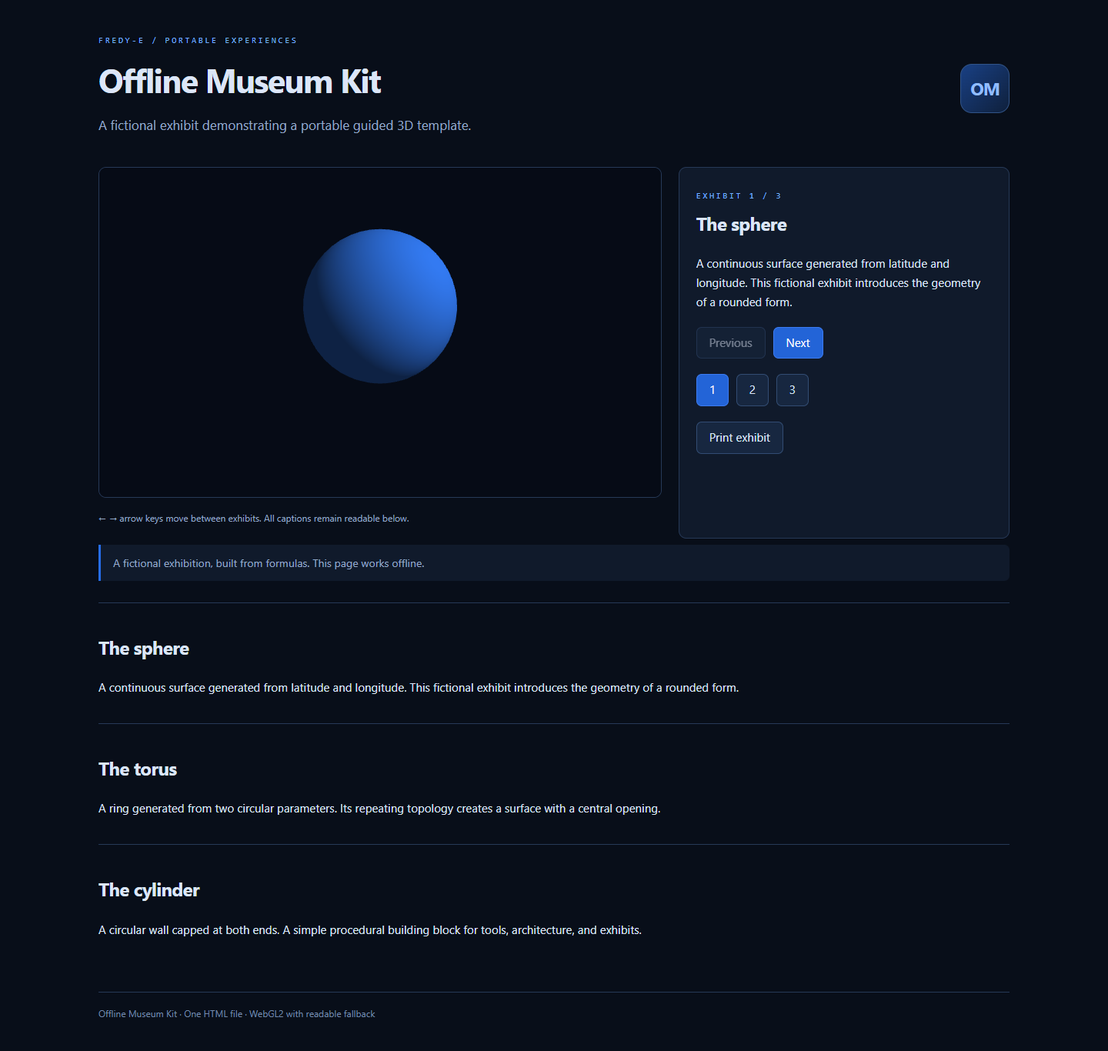
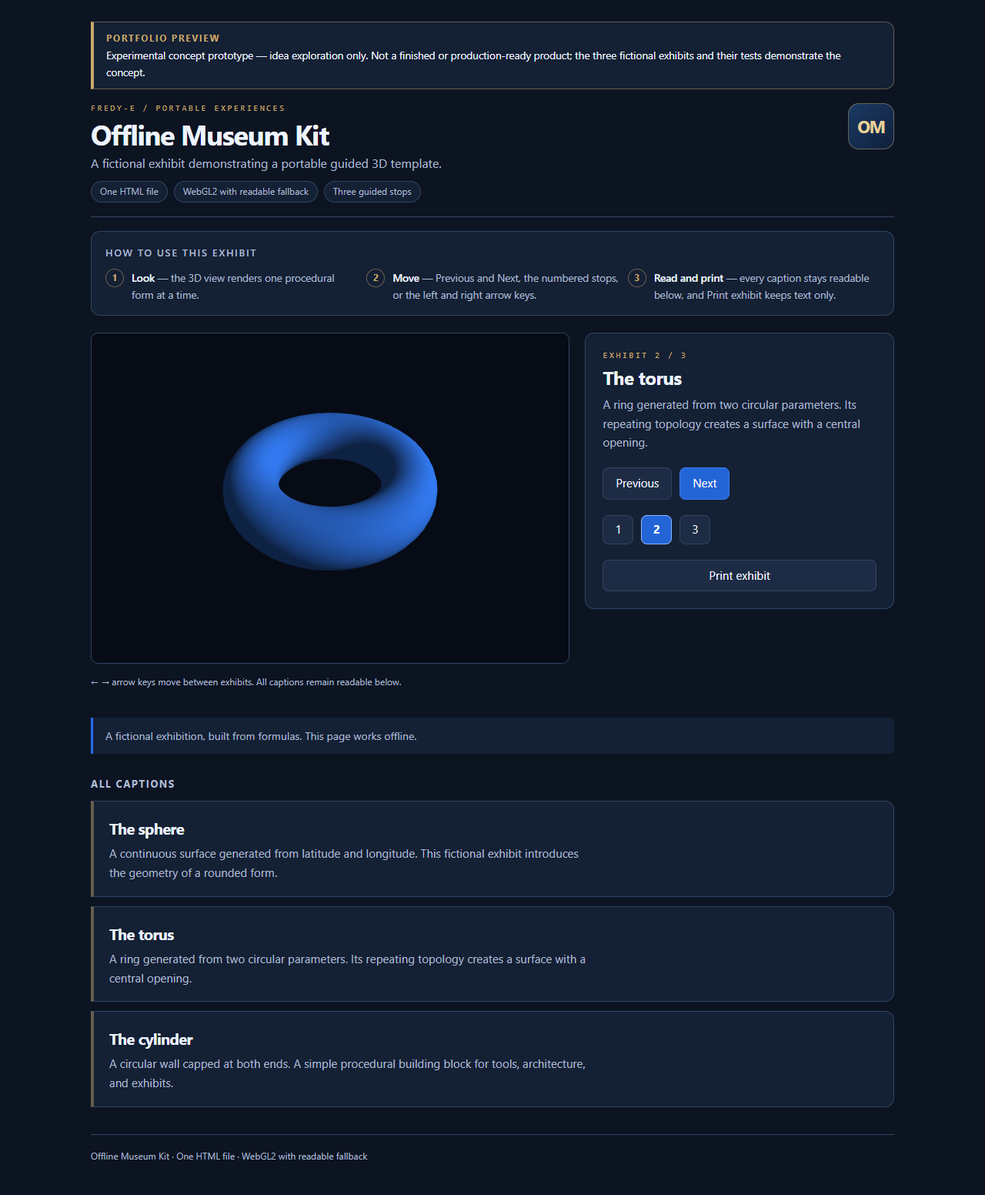
Approved UI preview refresh (Offline-Museum-Kit)

diff --git a/index.html b/index.html
@@ -1,6 +1,116 @@
-<!doctype html><html lang="en"><head><meta charset="utf-8"><meta name="viewport" content="width=device-width,initial-scale=1"><title>Offline Museum Kit</title><style>:root{color-scheme:dark;--bg:#080e19;--panel:#101a2b;--border:#263957;--text:#dce6f8;--muted:#95a8c8;--accent:#72adff;--blue:#266deb}*{box-sizing:border-box}body{margin:0;background:var(--bg);color:var(--text);font:15px/1.65 'Segoe UI',system-ui,sans-serif}main{max-width:1240px;margin:auto;padding:38px 28px}header{display:flex;align-items:center;justify-content:space-between;gap:20px;margin-bottom:25px}h1{font-size:43px;font-weight:650;letter-spacing:-1.6px;margin:0}h2{font-size:24px;letter-spacing:-.6px}h3{font-size:18px}p{margin:8px 0 16px}.eyebrow{font:11px Consolas,monospace;letter-spacing:2.6px;color:var(--accent);margin-bottom:10px}.subtitle{color:var(--muted);font-size:17px}.icon{display:grid;place-items:center;flex:0 0 64px;height:64px;border:1px solid #315488;border-radius:15px;background:linear-gradient(135deg,#194084,#0f203c);color:#92bdff;font-size:23px;letter-spacing:-1px;font-weight:700}.chip{font-size:11px;letter-spacing:.5px;font-weight:400;vertical-align:middle;margin-left:15px;padding:4px 8px;border:1px solid var(--border);border-radius:5px;color:var(--muted)}a{color:var(--accent)}button,.button,select,input,textarea{font:inherit}button,.button{display:inline-block;padding:9px 16px;border:1px solid #324c73;border-radius:7px;color:var(--text);background:#172740;cursor:pointer;line-height:1.45;text-decoration:none}button:hover,.button:hover{border-color:var(--accent);background:#213854}button:disabled{opacity:.5;cursor:default}.primary{background:#2364d7;border-color:#3c7bf0;color:white}.toolbar{display:flex;align-items:center;gap:10px;flex-wrap:wrap;margin:20px 0}.notice{background:var(--panel);padding:12px 16px;border-left:3px solid var(--blue);border-radius:0 7px 7px 0;color:var(--muted);font-size:14px;white-space:pre-wrap}.stats{display:grid;grid-template-columns:repeat(4,1fr);gap:14px;margin:24px 0}.stats>div{padding:18px 20px;background:var(--panel);border:1px solid var(--border);border-radius:9px}.stats b{display:block;font-size:27px;font-weight:650;color:#d7e8ff}.stats span{font-size:12px;color:var(--muted)}input,select,textarea{border:1px solid var(--border);border-radius:7px;background:#111d30;color:var(--text);padding:9px 12px}input::placeholder,textarea::placeholder{color:#8094b4}.filters{display:flex;gap:10px;flex-wrap:wrap}.filters input{flex:1;min-width:200px}.meta{color:var(--muted);font-size:12px;margin-top:17px}.table-wrap{overflow:auto;border:1px solid var(--border);border-radius:9px}table{border-collapse:collapse;width:100%;font-size:14px}th{text-align:left;background:#14243b;color:var(--muted);font-size:12px;font-weight:500}td,th{padding:14px 16px;border-bottom:1px solid var(--border);vertical-align:top}tr:last-child td{border-bottom:0}td strong{font-weight:600}small{display:block;color:var(--muted);font-size:12px;margin-top:4px}.badge{display:inline-block;font-size:11px;padding:3px 8px;background:#162d4e;border:1px solid #335686;color:#9ac6ff;border-radius:5px}.warn{background:#332b1b;border-color:#66532b;color:#f2cc89}details{font-size:12px;color:var(--muted)}summary{cursor:pointer;margin:8px 0;color:var(--accent)}.explain{font-size:14px;margin-top:25px;padding:14px 18px;border:1px solid var(--border);border-radius:8px}.explain p{max-width:920px}footer{margin-top:35px;border-top:1px solid var(--border);padding-top:18px;color:#748aac;font-size:12px}.split{display:grid;grid-template-columns:1fr 1fr;gap:18px}.panel{background:var(--panel);border:1px solid var(--border);border-radius:10px;padding:22px}.panel h2{margin-top:0}textarea{width:100%;min-height:250px;resize:vertical;font:13px/1.7 Consolas,monospace}.result-grid{display:grid;grid-template-columns:repeat(3,1fr);gap:15px}.result-grid ul{padding-left:20px;overflow-wrap:anywhere}canvas{display:block;width:100%;border:1px solid var(--border);border-radius:10px;background:#0b1425}.controls-grid{display:flex;gap:20px;align-items:center;flex-wrap:wrap}.controls-grid label{display:flex;gap:9px;align-items:center;font-size:13px}input[type=range]{width:140px;padding:0;accent-color:var(--blue)}input[type=checkbox]{accent-color:var(--blue)}.invalid{color:#efb4b4}pre{white-space:pre-wrap;overflow-wrap:anywhere}button:focus-visible,input:focus-visible,select:focus-visible,textarea:focus-visible,a:focus-visible{outline:2px solid var(--accent);outline-offset:3px}@media(max-width:760px){main{padding:24px 16px}h1{font-size:34px}.stats{grid-template-columns:repeat(2,1fr)}.split,.result-grid{grid-template-columns:1fr}.toolbar{gap:7px}td,th{padding:10px}.icon{display:none}.panel{padding:15px}}@media(prefers-reduced-motion:reduce){*{scroll-behavior:auto!important}}
+<!doctype html>
+<html lang="en">
+<head>
+<meta charset="utf-8">
+<meta name="viewport" content="width=device-width,initial-scale=1">
+<title>Offline Museum Kit</title>
+<style>/* Offline Museum Kit — portfolio preview shell.
+   Authoritative family style, vendored under build/vendor/ and embedded into
+   the standalone index.html by build/build_museum.py. System fonts only. */
+:root{
+  color-scheme:light dark;
+  --ui-bg:#0c1422;
+  --ui-surface:#142034;
+  --ui-ink:#eef4ff;
+  --ui-muted:#adbbd2;
+  --ui-accent:#8cbcff;
+  --ui-border:#31445f;
+  --ui-radius:12px;
+  --gold:#c9a86a;
+  --gold-line:rgba(201,168,106,.45);
+  --bg:var(--ui-bg);
+  --panel:var(--ui-surface);
+  --text:var(--ui-ink);
+  --muted:var(--ui-muted);
+  --accent:var(--ui-accent);
+  --border:var(--ui-border);
+  --blue:#266deb;
+}
+@media (prefers-color-scheme:light){
+  :root{
+    --ui-bg:#f2f5fa;
+    --ui-surface:#ffffff;
+    --ui-ink:#1d2b44;
+    --ui-muted:#4d617e;
+    --ui-accent:#204fb0;
+    --ui-border:#ccd8e9;
+    --gold:#8a6d2f;
+    --gold-line:#d9c491;
+    --blue:#204fb0;
+  }
+}
+*{box-sizing:border-box}
+html{scroll-behavior:smooth}
+body{margin:0;background:var(--ui-bg);color:var(--ui-ink);font:15px/1.65 'Segoe UI',system-ui,-apple-system,sans-serif}
+main{max-width:1100px;margin:auto;padding:28px 28px 40px;min-width:0}
+.prototype{margin:0 0 18px;padding:11px 16px;border:1px solid var(--gold-line);border-left:4px solid var(--gold);border-radius:0 var(--ui-radius) var(--ui-radius) 0;background:var(--ui-surface);color:var(--ui-ink);font-size:13.5px;line-height:1.6}
+.prototype strong{display:block;font-size:12px;letter-spacing:1.6px;text-transform:uppercase;color:var(--gold);margin-bottom:2px}
+.masthead{display:flex;align-items:flex-start;justify-content:space-between;gap:20px;margin:6px 0 18px;padding-bottom:18px;border-bottom:1px solid var(--ui-border)}
+.masthead h1{font-size:36px;font-weight:650;letter-spacing:-1.2px;margin:0 0 4px;line-height:1.1}
+.eyebrow{font:11px Consolas,Menlo,monospace;letter-spacing:2.4px;color:var(--gold);margin:0 0 8px;text-transform:uppercase}
+.subtitle{color:var(--ui-muted);font-size:16px;margin:0 0 10px;max-width:62ch}
+.facts{display:flex;gap:8px;flex-wrap:wrap;margin:0;padding:0;list-style:none}
+.facts li{font-size:12px;color:var(--ui-muted);border:1px solid var(--ui-border);border-radius:99px;padding:3px 11px;background:var(--ui-surface)}
+.icon{display:grid;place-items:center;flex:0 0 60px;height:60px;border:1px solid var(--gold-line);border-radius:14px;background:linear-gradient(135deg,#1b3a63,#0f203c);color:#e8cf9a;font-size:22px;font-weight:700;letter-spacing:-1px}
+.guide{margin:0 0 22px;padding:16px 18px;background:var(--ui-surface);border:1px solid var(--ui-border);border-radius:var(--ui-radius)}
+.guide h2{font-size:13px;letter-spacing:1.6px;text-transform:uppercase;color:var(--ui-muted);margin:0 0 10px;font-weight:600}
+.guide ol{margin:0;padding:0;list-style:none;display:grid;grid-template-columns:repeat(3,minmax(0,1fr));gap:12px}
+.guide li{display:flex;gap:10px;align-items:flex-start;font-size:13.5px;color:var(--ui-ink);min-width:0}
+.guide li b{flex:0 0 24px;height:24px;display:grid;place-items:center;border-radius:50%;border:1px solid var(--gold-line);color:var(--gold);font-size:12px;font-weight:700}
+.guide li span{color:var(--ui-muted)}
+.guide li span strong{color:var(--ui-ink);font-weight:600}
+.exhibit{display:grid;grid-template-columns:minmax(0,1.55fr) minmax(260px,1fr);gap:20px;align-items:start}
+.stage{position:relative;min-width:0}
+.panel{background:var(--ui-surface);border:1px solid var(--ui-border);border-radius:var(--ui-radius);padding:22px;min-width:0}
+.panel h2{margin:4px 0 6px;font-size:24px;letter-spacing:-.5px;line-height:1.2}
+.panel #description{color:var(--ui-muted);min-height:3.2em}
+h2{font-size:24px;letter-spacing:-.6px}
+p{margin:8px 0 16px}
+a{color:var(--ui-accent)}
+button{font:inherit}
+button{display:inline-block;padding:9px 16px;border:1px solid var(--ui-border);border-radius:8px;color:var(--ui-ink);background:rgba(140,188,255,.08);cursor:pointer;line-height:1.45;text-decoration:none;max-width:100%}
+button:hover{border-color:var(--ui-accent)}
+button:disabled{opacity:.5;cursor:default}
+.primary{background:#2364d7;border-color:#3c7bf0;color:#fff}
+@media (prefers-color-scheme:light){.primary{background:#204fb0;border-color:#204fb0}}
+.toolbar{display:flex;align-items:center;gap:10px;flex-wrap:wrap;margin:20px 0}
+#print{width:100%}
+#dots button{min-width:40px;padding:7px 10px}
+#dots button.primary{font-weight:700}
+.notice{background:var(--ui-surface);padding:12px 16px;border-left:3px solid var(--blue);border-radius:0 7px 7px 0;color:var(--ui-muted);font-size:14px;white-space:pre-wrap;margin:20px 0 0}
+.meta{color:var(--ui-muted);font-size:12px;margin-top:14px}
+footer{margin-top:35px;border-top:1px solid var(--ui-border);padding-top:18px;color:var(--ui-muted);font-size:12px}
+canvas{display:block;width:100%;border:1px solid var(--ui-border);border-radius:10px;background:#0b1425;max-width:100%}
+.captions{margin-top:28px}
+.captions>h2{font-size:13px;letter-spacing:1.6px;text-transform:uppercase;color:var(--ui-muted);margin:0 0 4px}
+.captions article{padding:18px 20px;border:1px solid var(--ui-border);border-left:4px solid var(--gold-line);border-radius:0 var(--ui-radius) var(--ui-radius) 0;margin-top:12px;background:var(--ui-surface)}
+@media (prefers-color-scheme:light){.captions article{background:#fffdf6}}
+.captions article h2{margin:0 0 4px;font-size:20px}
+.captions article p{margin:0;color:var(--ui-muted);max-width:78ch}
+button:focus-visible,a:focus-visible{outline:2px solid var(--ui-accent);outline-offset:3px}
+.skip{position:absolute;left:12px;top:-60px;z-index:99;padding:10px 16px;border-radius:0 0 10px 10px;background:var(--gold);color:#101828;font-weight:600;text-decoration:none;transition:top .2s}
+.skip:focus{top:0}
+@media(max-width:760px){main{padding:20px 14px 32px}.masthead h1{font-size:30px}.guide ol{grid-template-columns:minmax(0,1fr)}.toolbar{gap:7px}.icon{display:none}.panel{padding:16px}.exhibit{display:block}.guide{padding:14px}}
+@media(max-width:390px){main{padding:16px 12px 28px}.masthead h1{font-size:27px}.facts li{font-size:11px}}
+@media(prefers-reduced-motion:reduce){html{scroll-behavior:auto}*,*::before,*::after{animation-duration:.001ms!important;animation-iteration-count:1!important;transition-duration:.001ms!important;scroll-behavior:auto!important}}
+@media print{body{background:#fff;color:#111}canvas,.toolbar,.icon{display:none}.exhibit{display:block}.panel{background:#fff;color:#111;border:1px solid #aaa}.panel #description{color:#111;min-height:0}.prototype{background:#fff;color:#111;border:1px solid #888}.captions article{break-inside:avoid;background:#fff!important;color:#111;border:1px solid #aaa}.captions article p{color:#111}footer{color:#111}a{color:#111}}
 
-.exhibit{display:grid;grid-template-columns:minmax(0,1.7fr) minmax(220px,1fr);gap:22px}.stage{position:relative}#canvas{height:430px}#canvas[hidden]{display:none}.captions{margin-top:28px}.captions article{padding:18px 0;border-top:1px solid var(--border)}@media(max-width:760px){.exhibit{display:block}#canvas{height:320px}}@media print{body{background:white;color:black}canvas,.toolbar,.icon,.notice{display:none}.exhibit{display:block}.panel{background:white;color:black;border:1px solid #aaa}.captions article{break-inside:avoid}footer{color:black}}</style></head><body><main><header><div><p class="eyebrow">FREDY-E / PORTABLE EXPERIENCES</p><h1>Offline Museum Kit</h1><p class="subtitle" id="intro"></p></div><span class="icon">OM</span></header><div class="exhibit"><section class="stage"><canvas id="canvas" aria-label="Procedural 3D exhibit"></canvas><p class="meta">← → arrow keys move between exhibits. All captions remain readable below.</p></section><section class="panel"><p class="eyebrow" id="step"></p><h2 id="title"></h2><p id="description"></p><div class="toolbar"><button id="previous">Previous</button><button class="primary" id="next">Next</button></div><div id="dots" class="toolbar"></div><button id="print">Print exhibit</button></section></div><p class="notice" id="message" role="status">A fictional exhibition, built from formulas. This page works offline.</p><section class="captions" id="captions"></section><footer>Offline Museum Kit · One HTML file · WebGL2 with readable fallback</footer></main><script>(function(root){
+#canvas{height:430px}#canvas[hidden]{display:none}@media(max-width:760px){#canvas{height:320px}}</style>
+</head>
+<body>
+<a class="skip" href="#workspace">Skip to the exhibit workspace</a>
+<main data-ui-revision="portfolio-preview-1">
+<p class="prototype" id="prototype-notice"><strong>Portfolio preview</strong>Experimental concept prototype — idea exploration only. Not a finished or production-ready product; the three fictional exhibits and their tests demonstrate the concept.</p>
+<header class="masthead"><div><p class="eyebrow">FREDY-E / PORTABLE EXPERIENCES</p><h1>Offline Museum Kit</h1><p class="subtitle" id="intro"></p><ul class="facts"><li>One HTML file</li><li>WebGL2 with readable fallback</li><li>Three guided stops</li></ul></div><span class="icon" aria-hidden="true">OM</span></header>
+<nav class="guide" aria-label="How to use this exhibit"><h2>How to use this exhibit</h2><ol><li><b>1</b><span><strong>Look</strong> — the 3D view renders one procedural form at a time.</span></li><li><b>2</b><span><strong>Move</strong> — Previous and Next, the numbered stops, or the left and right arrow keys.</span></li><li><b>3</b><span><strong>Read and print</strong> — every caption stays readable below, and Print exhibit keeps text only.</span></li></ol></nav>
+<div class="exhibit" id="workspace"><section class="stage" aria-label="3D exhibit view"><canvas id="canvas" aria-label="Procedural 3D exhibit"></canvas><p class="meta">← → arrow keys move between exhibits. All captions remain readable below.</p></section>
+<section class="panel" aria-label="Exhibit controls"><p class="eyebrow" id="step"></p><h2 id="title"></h2><p id="description"></p><div class="toolbar"><button id="previous">Previous</button><button class="primary" id="next">Next</button></div><div id="dots" class="toolbar" role="group" aria-label="Exhibit stops"></div><button id="print">Print exhibit</button></section>
+</div>
+<p class="notice" id="message" role="status">A fictional exhibition, built from formulas. This page works offline.</p>
+<section class="captions" id="captions" aria-label="All exhibit captions"><h2>All captions</h2></section>
+<footer>Offline Museum Kit · One HTML file · WebGL2 with readable fallback</footer>
+</main>
+<script>(function(root){
 function surface(type,segments=32,rings=16){segments=Math.max(3,Math.min(128,Math.floor(segments)));rings=Math.max(2,Math.min(64,Math.floor(rings)));const positions=[],normals=[],indices=[];
 for(let j=0;j<=rings;j++)for(let i=0;i<=segments;i++){const u=i/segments*2*Math.PI,v=j/rings;let p,n;
 if(type==='sphere'){const t=v*Math.PI;n=[Math.sin(t)*Math.cos(u),Math.cos(t),Math.sin(t)*Math.sin(u)];p=n;}
@@ -14,7 +124,8 @@ return{positions,normals,indices};}
 function obj(mesh){const lines=['# MeshLab Mini procedural export'];for(let i=0;i<mesh.positions.length;i+=3)lines.push('v '+mesh.positions.slice(i,i+3).join(' '));for(let i=0;i<mesh.normals.length;i+=3)lines.push('vn '+mesh.normals.slice(i,i+3).join(' '));for(let i=0;i<mesh.indices.length;i+=3)lines.push('f '+mesh.indices.slice(i,i+3).map(x=>`${x+1}//${x+1}`).join(' '));return lines.join('\n');}
 const api={surface,obj};if(typeof module!=='undefined')module.exports=api;else root.MeshGeometry=api;
 })(typeof window!=='undefined'?window:globalThis);
-</script><script>(function(root){
+</script>
+<script>(function(root){
 function matmul(a,b){const r=new Float32Array(16);for(let c=0;c<4;c++)for(let row=0;row<4;row++)for(let k=0;k<4;k++)r[c*4+row]+=a[k*4+row]*b[c*4+k];return r;}
 function perspective(aspect){const f=1/Math.tan(Math.PI/7),near=.1,far=100;return new Float32Array([f/aspect,0,0,0,0,f,0,0,0,0,(far+near)/(near-far),-1,0,0,2*far*near/(near-far),0]);}
 function transform(azimuth,elevation,distance){const c=Math.cos(azimuth),s=Math.sin(azimuth),ce=Math.cos(elevation),se=Math.sin(elevation);const y=new Float32Array([c,0,-s,0,0,1,0,0,s,0,c,0,0,0,0,1]);const x=new Float32Array([1,0,0,0,0,ce,se,0,0,-se,ce,0,0,0,-distance,1]);return matmul(x,y);}
@@ -22,7 +133,10 @@ function create(canvas){const gl=canvas.getContext('webgl2',{antialias:true});if
 function shader(type,source){const s=gl.createShader(type);gl.shaderSource(s,source);gl.compileShader(s);if(!gl.getShaderParameter(s,gl.COMPILE_STATUS))throw Error(gl.getShaderInfoLog(s));return s;}const program=gl.createProgram();gl.attachShader(program,shader(gl.VERTEX_SHADER,vertex));gl.attachShader(program,shader(gl.FRAGMENT_SHADER,fragment));gl.linkProgram(program);if(!gl.getProgramParameter(program,gl.LINK_STATUS))throw Error(gl.getProgramInfoLog(program));gl.useProgram(program);const vao=gl.createVertexArray();gl.bindVertexArray(vao);const pos=gl.createBuffer(),nor=gl.createBuffer(),tri=gl.createBuffer(),lines=gl.createBuffer();for(const [name,buffer]of[['position',pos],['normal',nor]]){gl.bindBuffer(gl.ARRAY_BUFFER,buffer);const loc=gl.getAttribLocation(program,name);gl.enableVertexAttribArray(loc);gl.vertexAttribPointer(loc,3,gl.FLOAT,false,0,0);}let triangleCount=0,lineCount=0;return{update(mesh){gl.bindBuffer(gl.ARRAY_BUFFER,pos);gl.bufferData(gl.ARRAY_BUFFER,new Float32Array(mesh.positions),gl.STATIC_DRAW);gl.bindBuffer(gl.ARRAY_BUFFER,nor);gl.bufferData(gl.ARRAY_BUFFER,new Float32Array(mesh.normals),gl.STATIC_DRAW);gl.bindBuffer(gl.ELEMENT_ARRAY_BUFFER,tri);gl.bufferData(gl.ELEMENT_ARRAY_BUFFER,new Uint32Array(mesh.indices),gl.STATIC_DRAW);triangleCount=mesh.indices.length;const edge=[];const seen=new Set();for(let i=0;i<mesh.indices.length;i+=3)for(const [a,b]of[[mesh.indices[i],mesh.indices[i+1]],[mesh.indices[i+1],mesh.indices[i+2]],[mesh.indices[i+2],mesh.indices[i]]]){const k=Math.min(a,b)+':'+Math.max(a,b);if(!seen.has(k)){seen.add(k);edge.push(a,b)}}gl.bindBuffer(gl.ELEMENT_ARRAY_BUFFER,lines);gl.bufferData(gl.ELEMENT_ARRAY_BUFFER,new Uint32Array(edge),gl.STATIC_DRAW);lineCount=edge.length;},draw({azimuth=.5,elevation=.4,distance=4,wireframe=false,normalColor=false}={}){const width=Math.round(canvas.clientWidth*Math.min(devicePixelRatio,2)),height=Math.round(canvas.clientHeight*Math.min(devicePixelRatio,2));if(canvas.width!==width||canvas.height!==height){canvas.width=width;canvas.height=height}gl.viewport(0,0,width,height);gl.clearColor(.025,.045,.085,1);gl.clear(gl.COLOR_BUFFER_BIT|gl.DEPTH_BUFFER_BIT);gl.enable(gl.DEPTH_TEST);gl.useProgram(program);gl.bindVertexArray(vao);gl.uniformMatrix4fv(gl.getUniformLocation(program,'matrix'),false,matmul(perspective(width/height),transform(azimuth,elevation,distance)));gl.uniform1i(gl.getUniformLocation(program,'normalColor'),normalColor);gl.bindBuffer(gl.ELEMENT_ARRAY_BUFFER,wireframe?lines:tri);gl.drawElements(wireframe?gl.LINES:gl.TRIANGLES,wireframe?lineCount:triangleCount,gl.UNSIGNED_INT,0);}};}
 root.MeshRenderer={create};
 })(typeof window!=='undefined'?window:globalThis);
-</script><script>
+</script>
+<script>
 const exhibit={"title": "A small museum of forms", "description": "A fictional exhibit demonstrating a portable guided 3D template.", "items": [{"title": "The sphere", "description": "A continuous surface generated from latitude and longitude. This fictional exhibit introduces the geometry of a rounded form.", "shape": "sphere", "x": -3}, {"title": "The torus", "description": "A ring generated from two circular parameters. Its repeating topology creates a surface with a central opening.", "shape": "torus", "x": 0}, {"title": "The cylinder", "description": "A circular wall capped at both ends. A simple procedural building block for tools, architecture, and exhibits.", "shape": "cylinder", "x": 3}]};const $=x=>document.getElementById(x);$('intro').textContent=exhibit.description;let selected=0,renderer;let mesh;function build(item){const model=MeshGeometry.surface(item.shape,48,24);const positions=[];for(let i=0;i<model.positions.length;i+=3)positions.push(model.positions[i]*.82,model.positions[i+1]*.82+.28,model.positions[i+2]*.82);return{...model,positions}};try{renderer=MeshRenderer.create($('canvas'))}catch(error){$('message').textContent='3D rendering is unavailable. All exhibit captions and navigation still work.';$('canvas').hidden=true;}
 exhibit.items.forEach((item,index)=>{const article=document.createElement('article'),h=document.createElement('h2'),p=document.createElement('p');h.textContent=item.title;p.textContent=item.description;article.append(h,p);$('captions').append(article);const button=document.createElement('button');button.textContent=index+1;button.setAttribute('aria-label','Go to '+item.title);button.onclick=()=>show(index);$('dots').append(button)});function show(index){selected=Math.max(0,Math.min(exhibit.items.length-1,index));const item=exhibit.items[selected];$('step').textContent=`EXHIBIT ${selected+1} / ${exhibit.items.length}`;$('title').textContent=item.title;$('description').textContent=item.description;$('previous').disabled=selected===0;$('next').disabled=selected===exhibit.items.length-1;Array.from($('dots').children).forEach((b,i)=>{b.classList.toggle('primary',i===selected);b.setAttribute('aria-pressed',String(i===selected))});mesh=build(item);renderer?.update(mesh);draw();}function draw(){renderer?.draw({azimuth:[.45,.8,.6][selected]||.5,elevation:[.25,.75,.4][selected]||.4,distance:3.8})}$('previous').onclick=()=>show(selected-1);$('next').onclick=()=>show(selected+1);$('print').onclick=()=>window.print();window.addEventListener('keydown',event=>{if(['INPUT','TEXTAREA','SELECT'].includes(event.target.tagName))return;if(event.key==='ArrowRight'){event.preventDefault();show(selected+1)}if(event.key==='ArrowLeft'){event.preventDefault();show(selected-1)}});window.addEventListener('resize',draw);show(0);
-</script></body></html>
+</script>
+</body>
+</html>

diff --git a/build/build_museum.py b/build/build_museum.py
@@ -12,11 +12,36 @@ style=(vendor/'style.css').read_text(encoding='utf-8')
 geometry=(vendor/'geometry.js').read_text(encoding='utf-8')
 renderer=(vendor/'renderer.js').read_text(encoding='utf-8')
 # Both scripts and exhibit data are embedded: the exported page has no runtime assets.
-body='''<!doctype html><html lang="en"><head><meta charset="utf-8"><meta name="viewport" content="width=device-width,initial-scale=1"><title>Offline Museum Kit</title><style>STYLE
-.exhibit{display:grid;grid-template-columns:minmax(0,1.7fr) minmax(220px,1fr);gap:22px}.stage{position:relative}#canvas{height:430px}#canvas[hidden]{display:none}.captions{margin-top:28px}.captions article{padding:18px 0;border-top:1px solid var(--border)}@media(max-width:760px){.exhibit{display:block}#canvas{height:320px}}@media print{body{background:white;color:black}canvas,.toolbar,.icon,.notice{display:none}.exhibit{display:block}.panel{background:white;color:black;border:1px solid #aaa}.captions article{break-inside:avoid}footer{color:black}}</style></head><body><main><header><div><p class="eyebrow">FREDY-E / PORTABLE EXPERIENCES</p><h1>Offline Museum Kit</h1><p class="subtitle" id="intro"></p></div><span class="icon">OM</span></header><div class="exhibit"><section class="stage"><canvas id="canvas" aria-label="Procedural 3D exhibit"></canvas><p class="meta">← → arrow keys move between exhibits. All captions remain readable below.</p></section><section class="panel"><p class="eyebrow" id="step"></p><h2 id="title"></h2><p id="description"></p><div class="toolbar"><button id="previous">Previous</button><button class="primary" id="next">Next</button></div><div id="dots" class="toolbar"></div><button id="print">Print exhibit</button></section></div><p class="notice" id="message" role="status">A fictional exhibition, built from formulas. This page works offline.</p><section class="captions" id="captions"></section><footer>Offline Museum Kit · One HTML file · WebGL2 with readable fallback</footer></main><script>GEOMETRY</script><script>RENDERER</script><script>
+body='''<!doctype html>
+<html lang="en">
+<head>
+<meta charset="utf-8">
+<meta name="viewport" content="width=device-width,initial-scale=1">
+<title>Offline Museum Kit</title>
+<style>STYLE
+#canvas{height:430px}#canvas[hidden]{display:none}@media(max-width:760px){#canvas{height:320px}}</style>
+</head>
+<body>
+<a class="skip" href="#workspace">Skip to the exhibit workspace</a>
+<main data-ui-revision="portfolio-preview-1">
+<p class="prototype" id="prototype-notice"><strong>Portfolio preview</strong>Experimental concept prototype — idea exploration only. Not a finished or production-ready product; the three fictional exhibits and their tests demonstrate the concept.</p>
+<header class="masthead"><div><p class="eyebrow">FREDY-E / PORTABLE EXPERIENCES</p><h1>Offline Museum Kit</h1><p class="subtitle" id="intro"></p><ul class="facts"><li>One HTML file</li><li>WebGL2 with readable fallback</li><li>Three guided stops</li></ul></div><span class="icon" aria-hidden="true">OM</span></header>
+<nav class="guide" aria-label="How to use this exhibit"><h2>How to use this exhibit</h2><ol><li><b>1</b><span><strong>Look</strong> — the 3D view renders one procedural form at a time.</span></li><li><b>2</b><span><strong>Move</strong> — Previous and Next, the numbered stops, or the left and right arrow keys.</span></li><li><b>3</b><span><strong>Read and print</strong> — every caption stays readable below, and Print exhibit keeps text only.</span></li></ol></nav>
+<div class="exhibit" id="workspace"><section class="stage" aria-label="3D exhibit view"><canvas id="canvas" aria-label="Procedural 3D exhibit"></canvas><p class="meta">← → arrow keys move between exhibits. All captions remain readable below.</p></section>
+<section class="panel" aria-label="Exhibit controls"><p class="eyebrow" id="step"></p><h2 id="title"></h2><p id="description"></p><div class="toolbar"><button id="previous">Previous</button><button class="primary" id="next">Next</button></div><div id="dots" class="toolbar" role="group" aria-label="Exhibit stops"></div><button id="print">Print exhibit</button></section>
+</div>
+<p class="notice" id="message" role="status">A fictional exhibition, built from formulas. This page works offline.</p>
+<section class="captions" id="captions" aria-label="All exhibit captions"><h2>All captions</h2></section>
+<footer>Offline Museum Kit · One HTML file · WebGL2 with readable fallback</footer>
+</main>
+<script>GEOMETRY</script>
+<script>RENDERER</script>
+<script>
 const exhibit=DATA;const $=x=>document.getElementById(x);$('intro').textContent=exhibit.description;let selected=0,renderer;let mesh;function build(item){const model=MeshGeometry.surface(item.shape,48,24);const positions=[];for(let i=0;i<model.positions.length;i+=3)positions.push(model.positions[i]*.82,model.positions[i+1]*.82+.28,model.positions[i+2]*.82);return{...model,positions}};try{renderer=MeshRenderer.create($('canvas'))}catch(error){$('message').textContent='3D rendering is unavailable. All exhibit captions and navigation still work.';$('canvas').hidden=true;}
 exhibit.items.forEach((item,index)=>{const article=document.createElement('article'),h=document.createElement('h2'),p=document.createElement('p');h.textContent=item.title;p.textContent=item.description;article.append(h,p);$('captions').append(article);const button=document.createElement('button');button.textContent=index+1;button.setAttribute('aria-label','Go to '+item.title);button.onclick=()=>show(index);$('dots').append(button)});function show(index){selected=Math.max(0,Math.min(exhibit.items.length-1,index));const item=exhibit.items[selected];$('step').textContent=`EXHIBIT ${selected+1} / ${exhibit.items.length}`;$('title').textContent=item.title;$('description').textContent=item.description;$('previous').disabled=selected===0;$('next').disabled=selected===exhibit.items.length-1;Array.from($('dots').children).forEach((b,i)=>{b.classList.toggle('primary',i===selected);b.setAttribute('aria-pressed',String(i===selected))});mesh=build(item);renderer?.update(mesh);draw();}function draw(){renderer?.draw({azimuth:[.45,.8,.6][selected]||.5,elevation:[.25,.75,.4][selected]||.4,distance:3.8})}$('previous').onclick=()=>show(selected-1);$('next').onclick=()=>show(selected+1);$('print').onclick=()=>window.print();window.addEventListener('keydown',event=>{if(['INPUT','TEXTAREA','SELECT'].includes(event.target.tagName))return;if(event.key==='ArrowRight'){event.preventDefault();show(selected+1)}if(event.key==='ArrowLeft'){event.preventDefault();show(selected-1)}});window.addEventListener('resize',draw);show(0);
-</script></body></html>'''
+</script>
+</body>
+</html>'''
 body=body.replace('STYLE',style).replace('GEOMETRY',geometry).replace('RENDERER',renderer).replace('DATA',json.dumps(data).replace('<','\\u003c'))
 (root/'index.html').write_text(body,encoding='utf-8')
 print('Built standalone Offline Museum Kit page with embedded geometry, renderer, styles, and captions.')

diff --git a/README.md b/README.md
@@ -52,10 +52,17 @@ Unit checks (no dependencies):
 node tests/exhibit.test.cjs
 ```
 
+UI regression (static, no browser):
+
+```sh
+node tests/ui-regression.cjs
+```
+
 Rebuild reproducibility and safe JSON embedding (Python, stdlib only):
 
 ```sh
-python tests/test_build_museum.py
+python3 build/build_museum.py
+python3 tests/test_build_museum.py
 ```
 
 Browser end-to-end checks (Playwright 1.63.0, dev-only):
@@ -65,9 +72,15 @@ npm ci
 npm run test:browser
 ```
 
+Full default verification (unit + UI regression + builder + browser):
+
+```sh
+npm run verify
+```
+
 The browser checks open the page via `file://` and through a loopback-only static server, assert that no request leaves the local machine, read real pixels back from the WebGL2 drawing buffer, and exercise navigation/clamping/keys/dots, the no-WebGL2 fallback, and print media styles. On dev machines they use the installed Chrome; in CI they use the bundled Playwright Chromium. Override with `PW_CHANNEL=chrome|msedge|bundled`.
 
-CI (badge above) runs all suites on every push, including the Python rebuild check. A manual `pages.yml` workflow prepares a static artifact for GitHub Pages; it does not enable or publish Pages by itself.
+CI (badge above) runs the full default (`npm run verify`: unit + UI regression + builder + browser) on every push, including the Python rebuild check. A manual `pages.yml` workflow prepares a static artifact for GitHub Pages; it does not enable or publish Pages by itself.
 
 ## Limits
 
